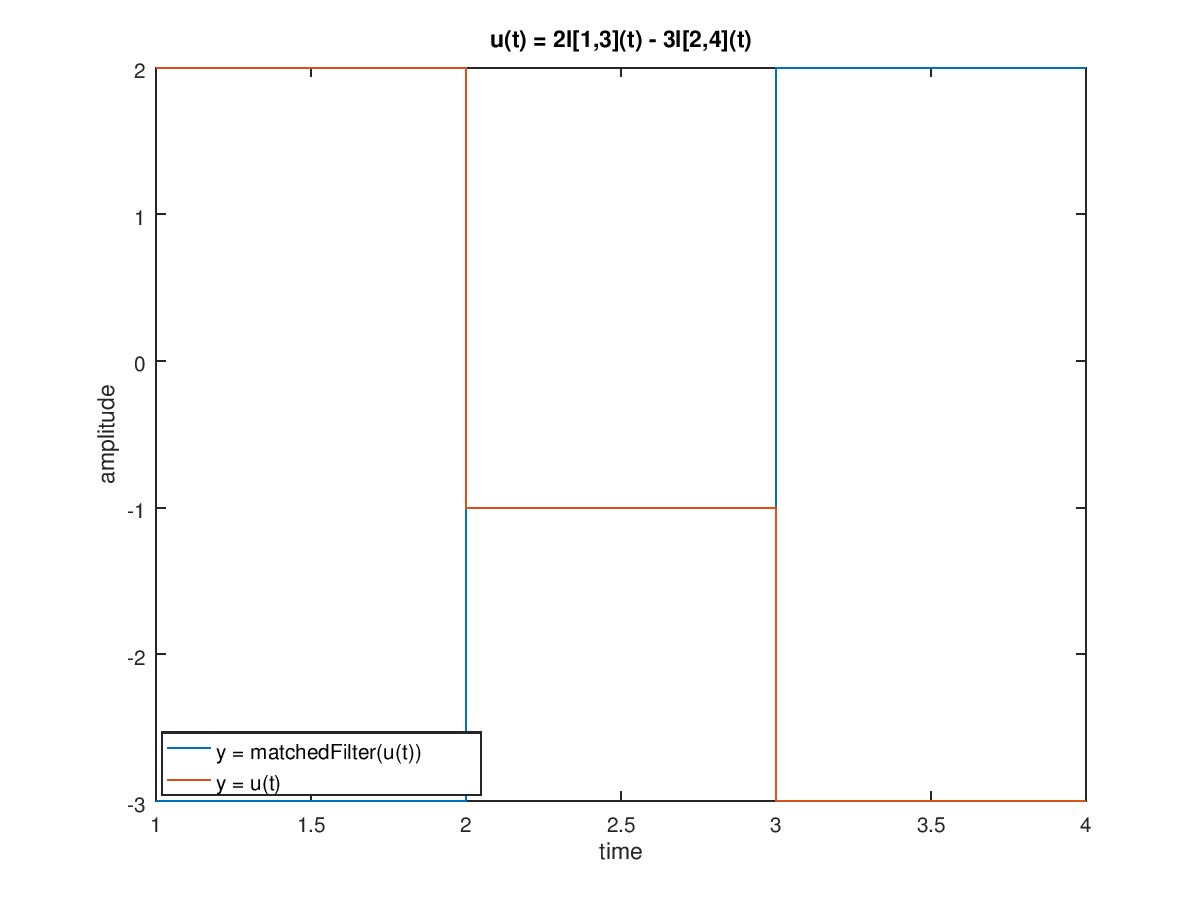
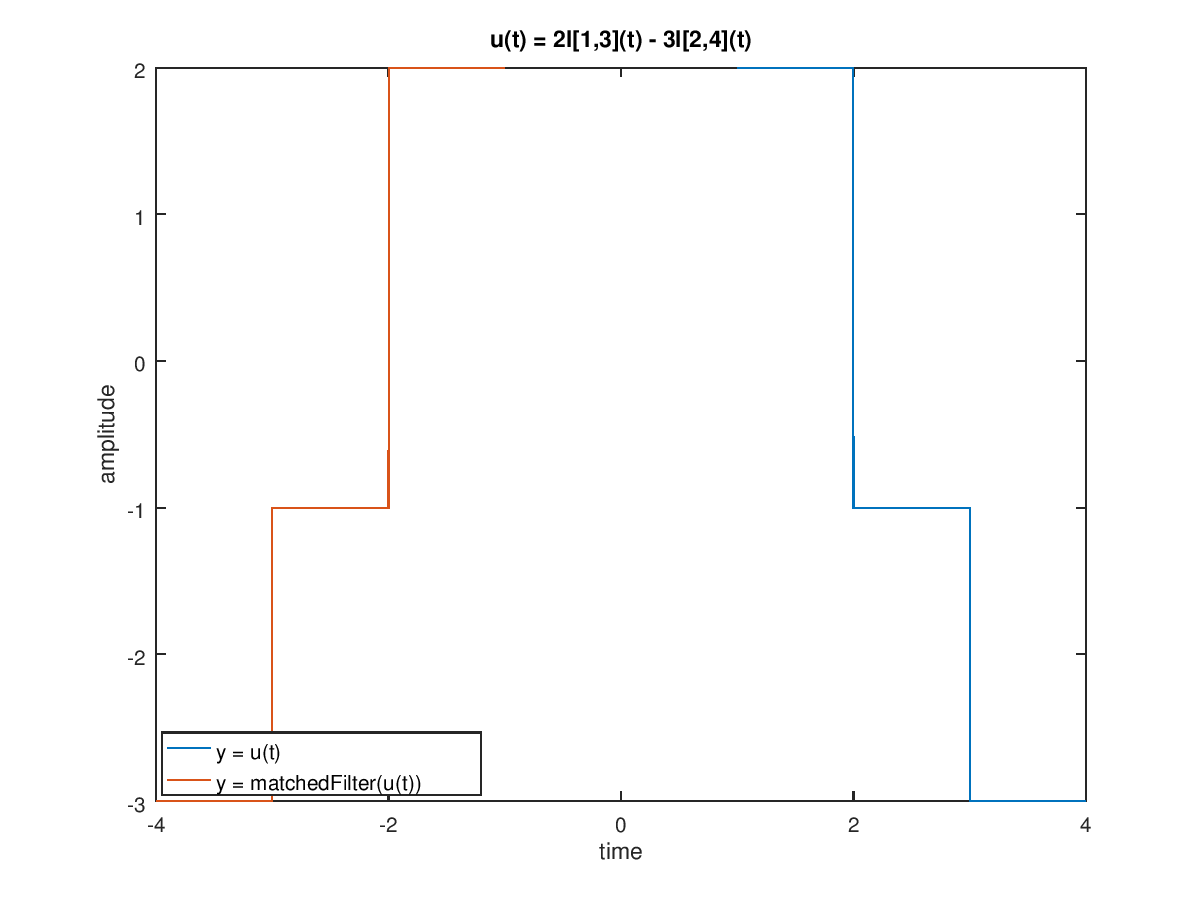
Submitted assignment

diff --git a/LAB 2/Sources/8.m b/LAB 2/Sources/8.m
@@ -1,0 +1,70 @@
+function [X,f,df] = contFT(x,tstart,dt,df_desired)
+%Use Matlab DFT for approximate computation of continuous time Fourier 
+%transform
+%INPUTS
+%x = vector of time domain samples, assumed uniformly spaced
+%tstart= time at which first sample is taken
+%dt = spacing between samples
+%df_desired = desired frequency resolution
+%OUTPUTS
+%X=vector of samples of Fourier transform
+%f=corresponding vector of frequencies at which samples are obtained %df=freq resolution attained (redundant--already available from %difference of consecutive entries of f)
+%%%%%%%%%
+%minimum FFT size determined by desired freq 
+Nmin=max(ceil(1/(df_desired*dt)),length(x));
+%choose FFT size to be the next power of 2
+Nfft = 2^(nextpow2(Nmin))
+%compute Fourier transform, centering around 
+X=dt*fftshift(fft(x,Nfft));
+%achieved frequency resolution
+df=1/(Nfft*dt)
+%range of frequencies covered
+f = ((0:Nfft-1)-Nfft/2)*df; %same as f=-1/(2*dt):df:1/(2*dt) - df
+%phase shift associated with start time 
+X=X.*exp(-j*2*pi*f*tstart);
+end
+
+
+function [mags] = getMagnitudes (dt, scalarArray)
+  current = ones(1/dt, 1).*scalarArray(1);
+  if(length(scalarArray) == 1)
+     mags = current;
+     return;
+  end
+  [next] = getMagnitudes(dt, scalarArray(2:1:end));
+  mags = vertcat(current, next);
+endfunction
+
+function [times, magnitudes] = getSignal(Tstart, Tend, dt, scalars)
+  % generates signals made of square waves
+  times = Tstart:dt:Tend-dt;
+  magnitudes = getMagnitudes(dt, scalars);
+endfunction
+
+function [times, magnitudes] = timeInvert(timeVct, magnitudeVct)
+  magnitudes = magnitudeVct(end:-1:1);
+  times = timeVct(end:-1:1).*(-1);
+endfunction
+
+% v(t) = I[-1, 2] + 2I[0, 1]
+% v(t) = I[-1, 0] + 3I[0, 1] + I[1, 2]
+%
+% u(t) = 2I[1, 3] - 3I[2, 4]
+% u(t) = 2I[1, 2] - I[2, 3] - 3I[3, 4]
+%
+% s(t) = u(t) + j*v(t)
+% s(t) = (j)I[-1, 0] + (3j)I[0, 1] + (2+j)I[1, 2] - I(2, 3) - 3I(3, 4)
+
+resolution = 0.001; % millisecond
+[time, signal] = getSignal(-1, 4, resolution, [i, 3i, 2 + i, -1, -3]);
+
+[amplitudes, frequencies, df] = contFT(signal, time(1), resolution, 1);
+
+Amp = abs(amplitudes);
+
+Amp(1:1:10)
+
+%plot(frequencies, Amp);
+
+
+

diff --git a/LAB 2/Sources/6.m b/LAB 2/Sources/6.m
@@ -1,0 +1,55 @@
+function [X,f,df] = contFT(x,tstart,dt,df_desired)
+%Use Matlab DFT for approximate computation of continuous time Fourier 
+%transform
+%INPUTS
+%x = vector of time domain samples, assumed uniformly spaced
+%tstart= time at which first sample is taken
+%dt = spacing between samples
+%df_desired = desired frequency resolution
+%OUTPUTS
+%X=vector of samples of Fourier transform
+%f=corresponding vector of frequencies at which samples are obtained %df=freq resolution attained (redundant--already available from %difference of consecutive entries of f)
+%%%%%%%%%
+%minimum FFT size determined by desired freq 
+Nmin=max(ceil(1/(df_desired*dt)),length(x));
+%choose FFT size to be the next power of 2
+Nfft = 2^(nextpow2(Nmin))
+%compute Fourier transform, centering around 
+X=dt*fftshift(fft(x,Nfft));
+%achieved frequency resolution
+df=1/(Nfft*dt)
+%range of frequencies covered
+f = ((0:Nfft-1)-Nfft/2)*df; %same as f=-1/(2*dt):df:1/(2*dt) - df
+%phase shift associated with start time 
+X=X.*exp(-j*2*pi*f*tstart);
+end
+
+sampling_freq = 16; % per micro second
+dt = 1/sampling_freq;
+
+temp_time = -8:dt:8; % -8 to 8 micro seconds
+temp_time = temp_time.*0.5;
+time = temp_time; % 2t - 3
+
+temp_signal = sinc(time.-1.5);
+signal = temp_signal.*3; % 3sinc(2t - 3)
+
+df_desired = 10^-3 % 0.001 per micro second = 1 KHz.
+
+%plot(time, signal);
+
+[amplitudes, frequencies, df] = contFT(signal, time(1), dt, df_desired);
+
+plot(frequencies, abs(amplitudes));
+
+
+
+%plot(frequencies, amplitudes)
+xlabel("frequencies (MHz)");
+ylabel("Amplitudes");
+title("Frequency spectrum of 3*sinc(2t - 3)")
+
+%plot(frequencies, rad2deg(angle(amplitudes)));
+%xlabel("frequencies (MHz)");
+%ylabel("Phase (degrees)");
+%title("Phase spectrum of 3*sinc(2t - 3)")

diff --git a/LAB 2/Sources/7.m b/LAB 2/Sources/7.m
@@ -1,0 +1,55 @@
+function [X,f,df] = contFT(x,tstart,dt,df_desired)
+%Use Matlab DFT for approximate computation of continuous time Fourier 
+%transform
+%INPUTS
+%x = vector of time domain samples, assumed uniformly spaced
+%tstart= time at which first sample is taken
+%dt = spacing between samples
+%df_desired = desired frequency resolution
+%OUTPUTS
+%X=vector of samples of Fourier transform
+%f=corresponding vector of frequencies at which samples are obtained %df=freq resolution attained (redundant--already available from %difference of consecutive entries of f)
+%%%%%%%%%
+%minimum FFT size determined by desired freq 
+Nmin=max(ceil(1/(df_desired*dt)),length(x));
+%choose FFT size to be the next power of 2
+Nfft = 2^(nextpow2(Nmin))
+%compute Fourier transform, centering around 
+X=dt*fftshift(fft(x,Nfft));
+%achieved frequency resolution
+df=1/(Nfft*dt)
+%range of frequencies covered
+f = ((0:Nfft-1)-Nfft/2)*df; %same as f=-1/(2*dt):df:1/(2*dt) - df
+%phase shift associated with start time 
+X=X.*exp(-j*2*pi*f*tstart);
+end
+
+sampling_freq = 16; % per micro second
+dt = 1/sampling_freq;
+
+temp_time = -8:dt:8; % -8 to 8 micro seconds
+temp_time = temp_time.*0.5;
+time = temp_time; % 2t - 3
+
+temp_signal = sinc(time.-1.5);
+signal = temp_signal.*3; % 3sinc(2t - 3)
+
+df_desired = 10^-3 % 0.001 per micro second = 1 KHz.
+
+%plot(time, signal);
+
+[amplitudes, frequencies, df] = contFT(signal, time(1), dt, df_desired);
+
+%plot(frequencies, abs(amplitudes));
+
+
+
+%plot(frequencies, amplitudes)
+%xlabel("frequencies (MHz)");
+%ylabel("Amplitudes");
+%title("Frequency spectrum of 3*sinc(2t - 3)")
+
+plot(frequencies, rad2deg(angle(amplitudes)));
+xlabel("frequencies (MHz)");
+ylabel("Phase (degrees)");
+title("Phase spectrum of 3*sinc(2t - 3)")

diff --git a/LAB 2/Sources/2.m b/LAB 2/Sources/2.m
@@ -10,11 +10,11 @@ function [convolution, time] = contconv (x1, x2, t1, t2, dt)
   endTime = Tstop1 + Tstop2;
   
   time = startTime:dt:endTime;
-  t = 1
+
   convolution = conv(x1,x2).*dt;
 endfunction
 
-function [time, result, filtered] = getSignalPair () 
+function [time, signal, signal_filtered, time_filtered] = getSignalPair ()
   % get signal and filtered signal
   resolution = 0.001;
 
@@ -27,16 +27,19 @@ function [time, result, filtered] = getSignalPair ()
   third = ones((1/resolution)+1, 1);
   third = third.*(-3);
 
-  result = vertcat(first, second, third);
-  filtered = result(end:-1:1);
-
+  signal = vertcat(first, second, third); % u(t)
   time = [1:resolution:4];
+
+  signal_filtered = signal(end:-1:1); % reversing magnitudes
+  time_filtered = time(end:-1:1).*(-1); %reverse and multiply my -1
 endfunction
 
-[time, signal, filtered] = getSignalPair();
+[time, signal, signal_filtered, time_filtered] = getSignalPair();
 
-[result, time] = contconv(signal, filtered, time(1), time(1), 0.001);
-plot(time, result);
+[convoluted_signal, convoluted_time] = contconv(signal, signal_filtered, time(1), time_filtered(1), 0.001);
+
+plot(convoluted_time, convoluted_signal);
+
 xlabel("time");
 ylabel("magnitude");
 title("Convolution of u(t) and u(-t)");

diff --git a/LAB 2/Sources/3.m b/LAB 2/Sources/3.m
@@ -16,7 +16,7 @@ endfunction
 
 function [times, magnitudes] = timeInvert(timeVct, magnitudeVct)
   magnitudes = magnitudeVct(end:-1:1);
-  times = timeVct.*(-1);
+  times = timeVct(end:-1:1).*(-1);
 endfunction
 
 % v(t) = I[-1, 2] + 2I[0, 1]
@@ -40,17 +40,17 @@ Rsignal2 = real(signal2);
 Isignal = imag(signal);
 Isignal2 = imag(signal2);
 
-plot(time, Rsignal, time2, Rsignal2);
-xlabel("Time");
-ylabel("Magnitude (Real)")
-title("Real part of s(t) and s*(-t)");
-legend("y = Real( s(t) )", "y = Real( s*(-t) )", "Location", "southwest")
-
-%plot(time, Isignal, time2, Isignal2);
+%plot(time, Rsignal, time2, Rsignal2);
 %xlabel("Time");
-%ylabel("Magnitude (Imaginary)")
-%title("Imaginary part of s(t) and s*(-t)");
-%legend("y = Imag( s(t) )", "y = Imag( s*(-t) )")
+%ylabel("Amplitude (Real)")
+%title("Real part of s(t) and s*(-t)");
+%legend("y = Real( s(t) )", "y = Real( s*(-t) )", "Location", "southwest")
+
+plot(time, Isignal, time2, Isignal2);
+xlabel("Time");
+ylabel("Amplitude (Imaginary)")
+title("Imaginary part of s(t) and s*(-t)");
+legend("y = Imag( s(t) )", "y = Imag( s*(-t) )")
 
 
 

diff --git a/LAB 2/Sources/contFT.m b/LAB 2/Sources/contFT.m
@@ -1,0 +1,25 @@
+function [X,f,df] = contFT(x,tstart,dt,df_desired)
+%Use Matlab DFT for approximate computation of continuous time Fourier 
+%transform
+%INPUTS
+%x = vector of time domain samples, assumed uniformly spaced
+%tstart= time at which first sample is taken
+%dt = spacing between samples
+%df_desired = desired frequency resolution
+%OUTPUTS
+%X=vector of samples of Fourier transform
+%f=corresponding vector of frequencies at which samples are obtained %df=freq resolution attained (redundant--already available from %difference of consecutive entries of f)
+%%%%%%%%%
+%minimum FFT size determined by desired freq 
+Nmin=max(ceil(1/(df_desired*dt)),length(x));
+%choose FFT size to be the next power of 2
+Nfft = 2^(nextpow2(Nmin))
+%compute Fourier transform, centering around 
+X=dt*fftshift(fft(x,Nfft));
+%achieved frequency resolution
+df=1/(Nfft*dt)
+%range of frequencies covered
+f = ((0:Nfft-1)-Nfft/2)*df; %same as f=-1/(2*dt):df:1/(2*dt) - df
+%phase shift associated with start time 
+X=X.*exp(-j*2*pi*f*tstart);
+end

diff --git a/LAB 2/Sources/1.m b/LAB 2/Sources/1.m
@@ -9,13 +9,15 @@ second = second.*(-1);
 third = ones((1/resolution)+1, 1);
 third = third.*(-3);
 
-result = vertcat(first, second, third);
-filtered = result(end:-1:1);
-
+signal = vertcat(first, second, third); % u(t)
 time = [1:resolution:4];
-plot(time, filtered, time, result);
+
+signal_filtered = result(end:-1:1); % reversing magnitudes
+time_filtered = time(end:-1:1).*(-1); %reverse and multiply my -1
+
+plot(time, signal, time_filtered, signal_filtered);
 title("u(t) = 2I[1,3](t) - 3I[2,4](t)");
 xlabel ("time");
 ylabel ("amplitude");
-legend("y = matchedFilter(u(t))", "y = u(t)", "Location", "southwest");
+legend("y = u(t)", "y = matchedFilter(u(t))", "Location", "southwest");
 

diff --git a/LAB 2/Sources/5.m b/LAB 2/Sources/5.m
@@ -49,7 +49,11 @@ resolution = 0.001
 [time2, signal2] = timeInvert(time, signal);
 signal2 = conj(signal2);
 
-[signalC, timeC] = contconv(signal, signal2, time, time2, resolution); 
+timeS = time.+2;  %timeshifting.
+signalS = signal.*exp(i*pi/4);
+
+[signalC, timeC] = contconv(signalS, signal2, timeS, time2, resolution);
+
 
 %plot(timeC, real(signalC));
 %xlabel("Time");
